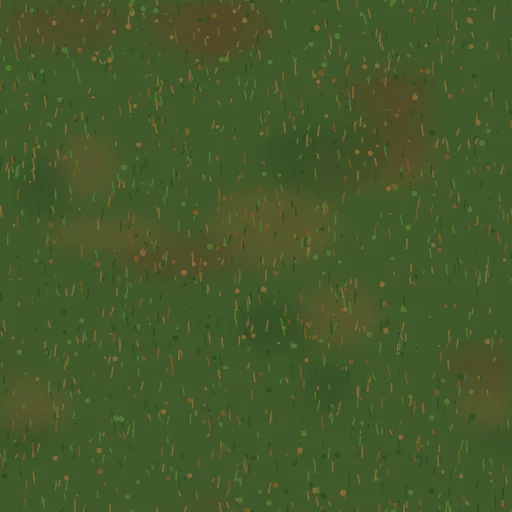
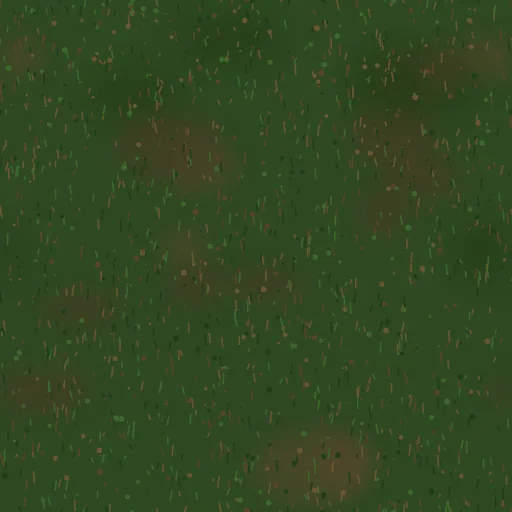
feat(arena): darker Kwaioua forest with fallen trunks, twigs and leaves

diff --git a/apps/frontend/src/app/features/play/arena/arena-prop-layout.ts b/apps/frontend/src/app/features/play/arena/arena-prop-layout.ts
@@ -44,11 +44,12 @@ const PROPS: Record<ArenaRegionId, ArenaPropSpec[]> = {
     { kind: 'pebble', count: 160, colors: ['#9a8a6c', '#7a6a50', '#b09460'], size: [0.06, 0.18], bands: [ALL] },
   ],
   kwaioua_forest: [
-    { kind: 'log', count: 18, colors: ['#5a4128', '#4a3520', '#6b4e30'], size: [0.7, 1.6], bands: [BEHIND, BEHIND, FRONT] },
+    // Fallen trunks of every girth (the log scales as a whole: thin branches to old trunks).
+    { kind: 'log', count: 26, colors: ['#5a4128', '#4a3520', '#6b4e30', '#3d2c1a'], size: [0.5, 2.4], bands: [BEHIND, BEHIND, FRONT] },
     { kind: 'rock', count: 22, colors: ['#5f6b52', '#55604a', '#6b7660'], size: [0.35, 1.0], bands: [BEHIND, FRONT] },
-    { kind: 'bush', count: 44, colors: ['#2e4a20', '#25401a', '#3a5a2c', '#1f3a17'], size: [0.7, 1.6], bands: [BEHIND, BEHIND, FRONT] },
+    { kind: 'bush', count: 50, colors: ['#1f3a17', '#25401a', '#2e4a20', '#173214'], size: [0.7, 1.7], bands: [BEHIND, BEHIND, FRONT] },
     { kind: 'twig', count: 70, colors: ['#5a4128', '#6b4e30', '#4a3520'], size: [0.5, 1.1], bands: [ALL] },
-    { kind: 'leaf', count: 420, colors: ['#2f4f22', '#3d5f2c', '#4a3a1e', '#6b5a2e', '#25401a'], size: [0.14, 0.26], bands: [ALL] },
+    { kind: 'leaf', count: 560, colors: ['#3d5f2c', '#4f7a34', '#6b5a2e', '#8a6a2a', '#a07a30', '#5f7a2a', '#2f4f22'], size: [0.18, 0.34], bands: [ALL] },
     { kind: 'pebble', count: 120, colors: ['#6b7660', '#5f6b52', '#7d7a6a'], size: [0.05, 0.14], bands: [ALL] },
   ],
   wastelands: [
